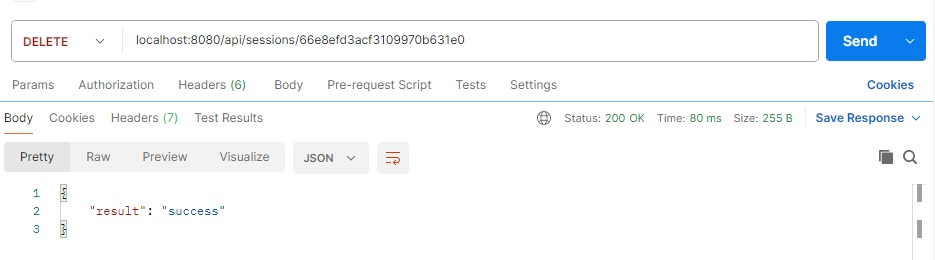
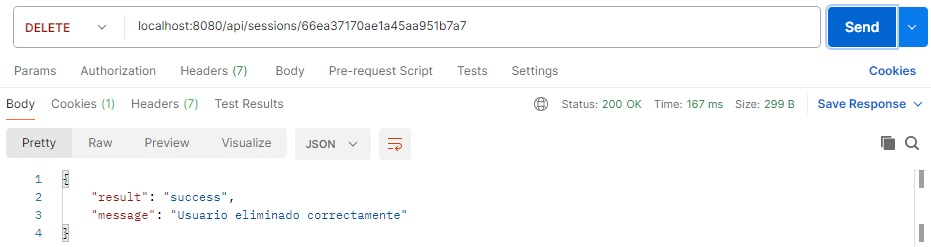
Backend II

diff --git a/src/routes/api/sessions.router.js b/src/routes/api/sessions.router.js
@@ -1,82 +1,71 @@
 import {Router} from 'express'
-import { createHash, isValidPassword, passportCall, authorization } from '../../utils.js'
+import { passportCall, authorization } from '../../utils.js'
 import jwt from 'jsonwebtoken'
-import Users from './../../models/users.model.js'
+import Users from "./../../controllers/users.js"
 
 const router = Router();
 
 router.post('/login',async(req,res)=>{console.log('entra login')
   const {email,password} = req.body
-  if(!(email && email.trim()!='' && password && password.trim()!='')) res.status(400).json({error: "Falta email y/o password"})
-  try {
-    const user = await Users.findOne({ email }, { email: 1, first_name: 1, last_name: 1, password: 1, role:1 });
-    if (!user) return res.status(400).json({ error: "Usuario no encontrado" });
-    if (isValidPassword(user, password)){ console.log('va login')
-      let token = jwt.sign({email, role:user.role},"coderSecret",{expiresIn:"24h"})  
-      res.send({message: "Inicio de sesión exitoso",token})
-    } else {
-      return res.status(403).send({ status: "error", error: "Usuario o password incorrecto" })
-    }
-  } catch(err) {
-    res.status(500).send('Error en login de usuario '+err)
-  }  
+  const iusers = new Users();
+  iusers.getUserPassword(email,password)
+    .then(user=>{
+      if(user){
+        let token = jwt.sign({email, role:user.role},"coderSecret",{expiresIn:"24h"})  
+        res.send({message: "Inicio de sesión exitoso",token})
+      } else {
+        res.status(iusers.getTipoError()).json({error:iusers.getError()})
+      }
+    })
+    .catch(error => res.status(500).json({error: "Internal Server Error. "+(error._message? error._message:'')}))
 })
 
 router.get('/current',passportCall('jwt'), authorization('user'), (req,res)=>{
   res.send(req.user)
 })
 
-router.post('/register', async(req, res)=>{
+router.post("/register", (req,res)=>{console.log("nuevo usuario")
   const {first_name, last_name, email, age, password, cart, role} = req.body
-  if(!(email && email.trim()!='' && password && password.trim()!='')) res.status(400).json({error: "No se puede crear usuario. Falta email y/o password"})
-  console.log('pass '+password+' - '+createHash(password))
-  try{
-    const user = Users.findOne({ email }, { email: 1})
-    console.log(user.email)
-    if (user && user.email===email){
-      res.status(400).json({error: "No se puede crear usuario, ya hay registrado con el email ingresado"})
-    } else{ 
-      const newUser = new Users({first_name, last_name, email, age, password:createHash(password), cart, role})
-      await newUser.save()
-      res.send({result: "success", payload:newUser}) 
+  const iusers = new Users();
+  iusers.setUser(first_name, last_name, email, age, password, cart, role)
+    .then(user=>{
+      if(user){
+        res.send({result: "success", payload:user})
+      } else {
+        res.status(400).json({error:iusers.getError()})
+      }
+    })
+    .catch(error => res.status(500).json({error: "Internal Server Error. "+(error._message? error._message:'')}))
+})
+
+router.put("/:id", (req,res)=>{
+  const id = req.params.id;
+  const {first_name, last_name, age, password, cart, role} = req.body
+  const iusers = new Users();
+  iusers.updateUser(id, first_name, last_name, age, password, cart, role)
+  .then(user=>{
+    if(user){
+      res.send({result: "success", payload:user})
+    } else {
+      res.status(400).json({error:iusers.getError()})
     }
-  } catch(err){
-    res.status(500).send('Error al registrar usuario '+err)
-  }
+  })
+  .catch(error => res.status(500).json({error: "Internal Server Error. "+(error._message? error._message:'')}))
 })
 
-router.put("/:id", async(req,res)=>{
+router.delete("/:id", (req,res)=>{
   const id = req.params.id;
-  if(!id || id==="") res.status(400).json({error: "No se puede modificar usuario. Id no válido"})
-  const {first_name, last_name, email, age, password, cart, role} = req.body
-  try{
-    const user = await Users.findOne({ _id: id });
-    if(first_name&&first_name.trim()!='') user.first_name=first_name.trim()
-    if(last_name&&last_name.trim()!='') user.last_name=last_name.trim()
-    if(email&&email.trim()!='') user.email=email.trim()
-    if(age&& parseInt(age)>0) user.age=age
-    if(password&&password.trim()!='') user.password=createHash(password)
-    if(cart) user.cart=cart
-    if(role&&role.trim()!='') user.role=role.trim()
-      console.log(user)
-    await Users.updateOne({ _id: id }, user)
-    res.send({result: "success", payload:user})
-  } catch(err){
-    res.status(500).send('Error al modificar usuario')
-  }
+  const iusers = new Users();
+  iusers.delUser(id)
+  .then(result=>{
+    if(result){
+      res.send({result: "success", message:"Usuario eliminado correctamente"})
+    } else {
+      res.status(400).json({error:iusers.getError()})
+    }
+  })
+  .catch(error => res.status(500).json({error: "Internal Server Error. "+(error._message? error._message:'')}))
 })
-
-router.delete("/:id", async(req,res)=>{
-  const id = req.params.id;
-  if(!id || id==="") res.status(400).json({error: "No se puede eliminar usuario. Id no válido"})
-  try{
-    await Users.deleteOne({ _id: id })
-    res.send({result: "success"})
-  } catch(err){
-    res.status(500).send('Error al eliminar usuario')
-  }
-})
-
 
 
 export default router;

diff --git a/src/controllers/users.js b/src/controllers/users.js
@@ -1,0 +1,101 @@
+import userModel from "../models/users.model.js"
+import { createHash, isValidPassword } from '../utils.js'
+
+class Carts{
+  constructor(){
+    this.error = ''
+    this.tipoerror = 400
+  }
+
+  // Busca user por email y valida password
+  async getUserPassword(email,password){
+    try {
+      if(!(email && email.trim()!='' && password && password.trim()!='')) {
+        this.error = "No se puede validar usuario. Falta email y/o password"
+        return undefined
+      }  
+      const user = await userModel.findOne({ email }, { email: 1, first_name: 1, last_name: 1, password: 1, role:1 });
+      if (!user){
+        this.error = "Usuario no encontrado"
+        return undefined
+      }
+      if (isValidPassword(user, password)){ console.log('va login')
+        return user
+      } else {
+        this.error = "Usuario o password incorrecto"
+        this.tipoerror = 403
+        return undefined
+      }
+    } catch(error) {
+      console.log("Error en log de usuario ");
+      throw error
+    }
+  }
+
+  // Crea nuevo usuario
+  async setUser(first_name, last_name, email, age, password, cart, role){
+    try{
+      if(!(email && email.trim()!='' && password && password.trim()!='')) {
+        this.error = "No se puede crear usuario. Falta email y/o password"
+        return undefined
+      }
+      const user = userModel.findOne({ email })
+      console.log(user.email)
+      if (user && user.email===email){
+        this.error = "No se puede crear usuario, ya hay registrado con el email ingresado"
+        return undefined
+      } else{ 
+        const newUser = new userModel({first_name, last_name, email, age, password:createHash(password), cart, role})
+        await newUser.save()
+        return newUser
+      }
+    } catch(error){
+      console.log(error)
+      throw error
+    }
+  }
+
+  // Modifica usuario
+  async updateUser(id, first_name, last_name, age, password, cart, role){
+    try {
+      if(!id || id===""){ this.error = "No se puede modificar usuario. Id no válido"; return undefined;}
+      const user = await userModel.findOne({ _id: id });
+      if(first_name&&first_name.trim()!='') user.first_name=first_name.trim()
+      if(last_name&&last_name.trim()!='') user.last_name=last_name.trim()
+      if(age&& parseInt(age)>0) user.age=age
+      if(password&&password.trim()!='') user.password=createHash(password)
+      if(cart) user.cart=cart
+      if(role&&role.trim()!='') user.role=role.trim()
+       console.log(user)
+      let result = await userModel.updateOne({ _id: id }, user)
+      return result;
+    } catch(error){
+      console.log("Error al modificar usuario");
+      throw error
+    }
+  }
+
+  // Baja de usuario 
+  async delUser(id){
+    try{
+      if(!id || id===""){ this.error = "No se puede eliminar usuario. Id no válido"; return false;}
+      const result = await userModel.deleteOne({ _id: id })
+      console.log("Usuario eliminado correctamente",result);
+      return true;
+    } catch(error){
+      console.log("Error al dar de baja user")
+      throw error
+    }
+  }
+
+  getError(){
+    return this.error
+  }
+
+  getTipoError(){
+    return this.tipoerror
+  }
+
+}
+
+export default Carts

diff --git a/src/app.js b/src/app.js
@@ -14,10 +14,9 @@ import { __dirname } from "./utils.js"
 
 const PORT = 8080
 
+//configurar Handlebars, public, cookies y passport
 servidor.app.use(bodyParser.urlencoded({ extended: false }))
 servidor.app.use(bodyParser.json())
-
-//configurar Handlebars, public, cookies y passport
 servidor.app.engine('handlebars',handlebars.engine())
 servidor.app.set('views', __dirname + '/views')
 servidor.app.set('view engine','handlebars')

diff --git a/src/config/database.js b/src/config/database.js
@@ -1,6 +1,6 @@
 import mongoose from 'mongoose';
 
-mongoose.connect("MONGO_URL");
+mongoose.connect("mongodb+srv://user:user@codercluster.cf9yy1h.mongodb.net/coderbase?retryWrites=true&w=majority&appName=CoderCluster");
 
 const db = mongoose.connection;
 
